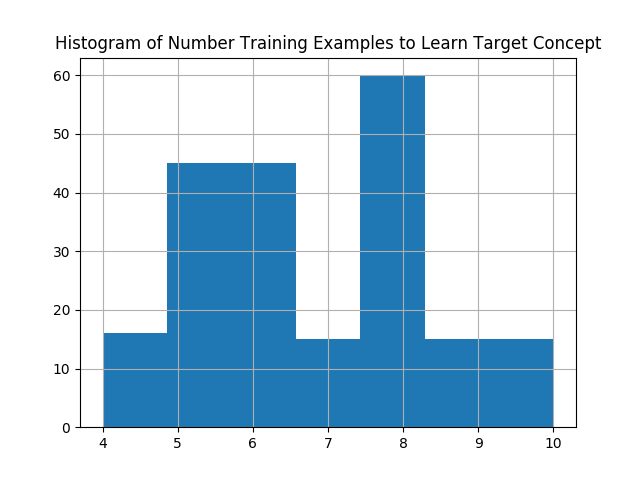
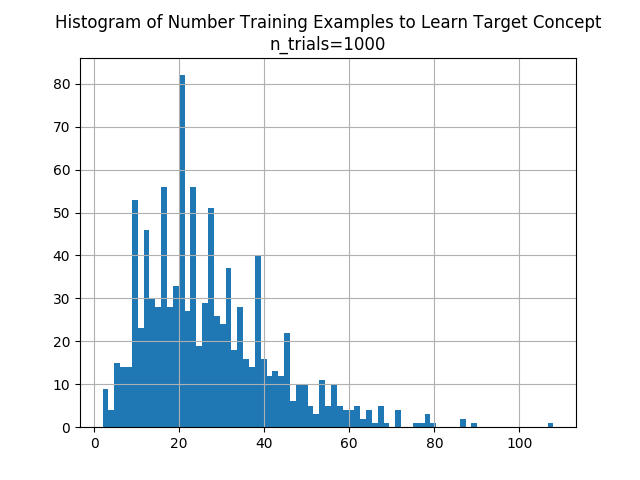
removed some user interaction from find-s.py to cimplify experience, fixed a potential python syntax issue, spring cleaning and documentation

diff --git a/experiment.py b/experiment.py
@@ -1,19 +1,33 @@
-import sys
-from os import path
-import csv
-import random
+"""
+Answers the experimental question: how many training examples will
+    find-s require to learn the target concept: 
+    <Sunny, Warm, ?, ?, ?, ?>
 
-'''
-Vihan Patel
-Suada Demirovic
-Luke Kurlandski
-'''
+Runs the experiment and produces a csv file which later can be used to
+    conduct statistical analysis.
+
+Run this program from the command line like
+
+    > python3 experiment.py number_of_trials
+
+    where number_of_trials is an integer that default to 1000 if nothing
+        is specified
+
+Vihan Patel, Suada Demirovic, Luke Kurlandski
+
+March 2021
+"""
+
+import csv
+from os import path
+import random
+import sys
 
 def find_s_iteration(current_hypothesis, new_training_example):
-    
     """
     Run a single iteration of find-s algorithm, ie, the "stuff" in the
         for loop, and return the new hypothesis.
+
     Arguments:
         current_hypothesis : list : the most current hypothesis to
             generalize from, default is
@@ -54,10 +68,10 @@ def find_s_iteration(current_hypothesis, new_training_example):
     #
     
 def training_example_generator():
-    
     """
     Generate random training example according to target concept
         <Sunny, Warm, ?, ?, ?, ?>.
+
     Returns:
         example : (list, str) : a tuple of the six attribute values and
             the classification according to the target concept,
@@ -97,7 +111,7 @@ def training_example_generator():
     
     answer = 'no'
     
-    if((trainingEx[0] == 'Sunny') & (trainingEx[1] == 'Warm')):
+    if((trainingEx[0] == 'Sunny') and (trainingEx[1] == 'Warm')):   # replaced & with and
         answer = 'yes'
     #
     
@@ -107,8 +121,10 @@ def examples_required_to_learn(target_concept):
     """
     Determine how many random training examples are required to learn a
         given target function using find-s algorithm.
+
     Arguments:
         target_concept : list : the target concept to learn
+
     Returns:
         num_examples: int : number of training examples required to
             learn target concept
@@ -129,6 +145,7 @@ def experimental_question(n=100):
     """
     Write the number of examples required to learn the target concept
         for n trials to a txt file.
+
     Arguments:
         n : int : number of trials to perform (should be >= 100)
     """
@@ -144,9 +161,12 @@ def experimental_question(n=100):
         write.writerow(number_of_required_examples)
 
 def main():
+    """
+    Acquire number of trial from user, or use 1000 as default then run.
+    """
 
-    experimental_question(1000)
+    n_trials = int(sys.argv[1]) if len(sys.argv) > 1 else 1000
+    experimental_question(n_trials)
     
 if __name__ == "__main__":
-
     main()

diff --git a/find_s.py b/find_s.py
@@ -1,13 +1,25 @@
-import sys
-from os import path
-import csv
-import random
+"""
+Implementation of the find-s algorithm and vertification that it
+    produces the trace found in class.
 
-'''
-Vihan Patel
-Suada Demirovic
-Luke Kurlandski
-'''
+Run this program from the command line like
+
+    > python3 find_s.py training_examples.csv
+
+    where training_examples.csv is a formatted csv file with a header
+        describing the features and the target concept, then each row
+        describing a training example that defaults to 
+        training_examples.csv if nothing is specified.
+
+Vihan Patel, Suada Demirovic, Luke Kurlandski
+
+March 2021
+"""
+
+import csv
+from os import path
+import random
+import sys
 
 def handleInput():
 
@@ -15,25 +27,11 @@ def handleInput():
 
     #ask the user which csv file he/she wants to use for concept learning
     
-    print()
+    file = sys.argv[1] if len(sys.argv) > 1 else 'training_examples.csv'
 
-    file = input('Enter a relative or absolute path to a csv file: ')
-    index = file.find('.csv')
-    
-    if(index == len(file) - 4):
-        value = path.exists(file)
-        if(value == False):
-            print()
-            print('Sorry,', file, 'does not exist.')
-            print()
-            sys.exit(0)
-        #
-    else:
-        print()
-        print('Sorry,', file, 'is an invalid input.')
-        print()
-        sys.exit(0)
-    #
+    if not path.exists(file):
+        print(file, "could not be not found")
+        sys.exit()
 
     ###############################################################################################
     

diff --git a/produce_plots.py b/produce_plots.py
@@ -1,5 +1,20 @@
 """
 This script is used to produce the plots which accompany the submission.
+
+Note that this script uses the third party library pandas, but that was
+	specified as being acceptable by Dr. Bloodgood. Requires the 
+	experimental_question.csv file to exist and be formatted as
+	a single line of comma-separated values. Produces a .csv and .png 
+	file. These files should be converted into a single pdf format prior 
+	to submission.
+
+Run this program from the command line like
+
+    > python3 produce_plots.py
+
+Vihan Patel, Suada Demirovic, Luke Kurlandski
+
+March 2021
 """
 
 import csv
@@ -7,18 +22,15 @@ import pandas as pd
 
 # Get the produced data.
 df = pd.read_csv('experimental_question.csv', header=None).transpose()
-name = 'Histogram of Number Training Examples to Learn Target Concept'
+name = 'Histogram of Number Training Examples to Learn Target Concept\nn_trials=' + str(len(df.index))
 df.columns = [name]
 
-# Produce an image.
+# Produce an image and save it to a .png file.
 hist = df.hist([name], bins=df[name].nunique())
 fig = hist[0][0].get_figure()
 fig.savefig('experimental_question.png')
 
-# Record important experimental information in a csv file. Suggested to 
-	# open the produced csv file into excel, take a screenshot, and 
-	# save it to a pdf along with the png image.
-
+# Record statistical information in a .csv file.
 details = {
 	"n" : len(df.index),
 	"min" : df[name].min(),

diff --git a/README.md b/README.md
@@ -1,2 +1,35 @@
 # Concept-Learner
-Concept learning for CSC 426
+Project 2 Concept Learner for CSC426-01: Machine Learning.
+
+Instructions to use programs:
+
+Task 1, Task 2: 
+	In the command line, type
+		> python3 find_s.py
+
+	This will automatically use the training data contained in the file
+	training_examples.csv. If desired, you can run the find-s algorithm
+	and print the trace on any similarily formatted csv file by 
+	supplying the name of the csv file as a command line argument.
+
+Task 3, Experimental Question
+	We have already provided the required historgram and data analysis, 
+	so there is no need for the professor to do any of this. However, in
+	the spirit of good documentation, we document this aspect of the 
+	program as well. 
+	
+	To run this aspect of the program, in the command line type
+		> python3 experiment.py
+
+	This will automatically perform an experiment with 1000 trials, but 
+	the number of trials can be controlled by specifying an integer as
+	command line argument. This will output a csv file containing the 
+	data collected from the experiment. To produce the histogram and 
+	stats, in the command line type
+		> python3 produce_plots.py
+
+	The histogram relies on pandas, so make sure that is installed.
+
+	
+
+
